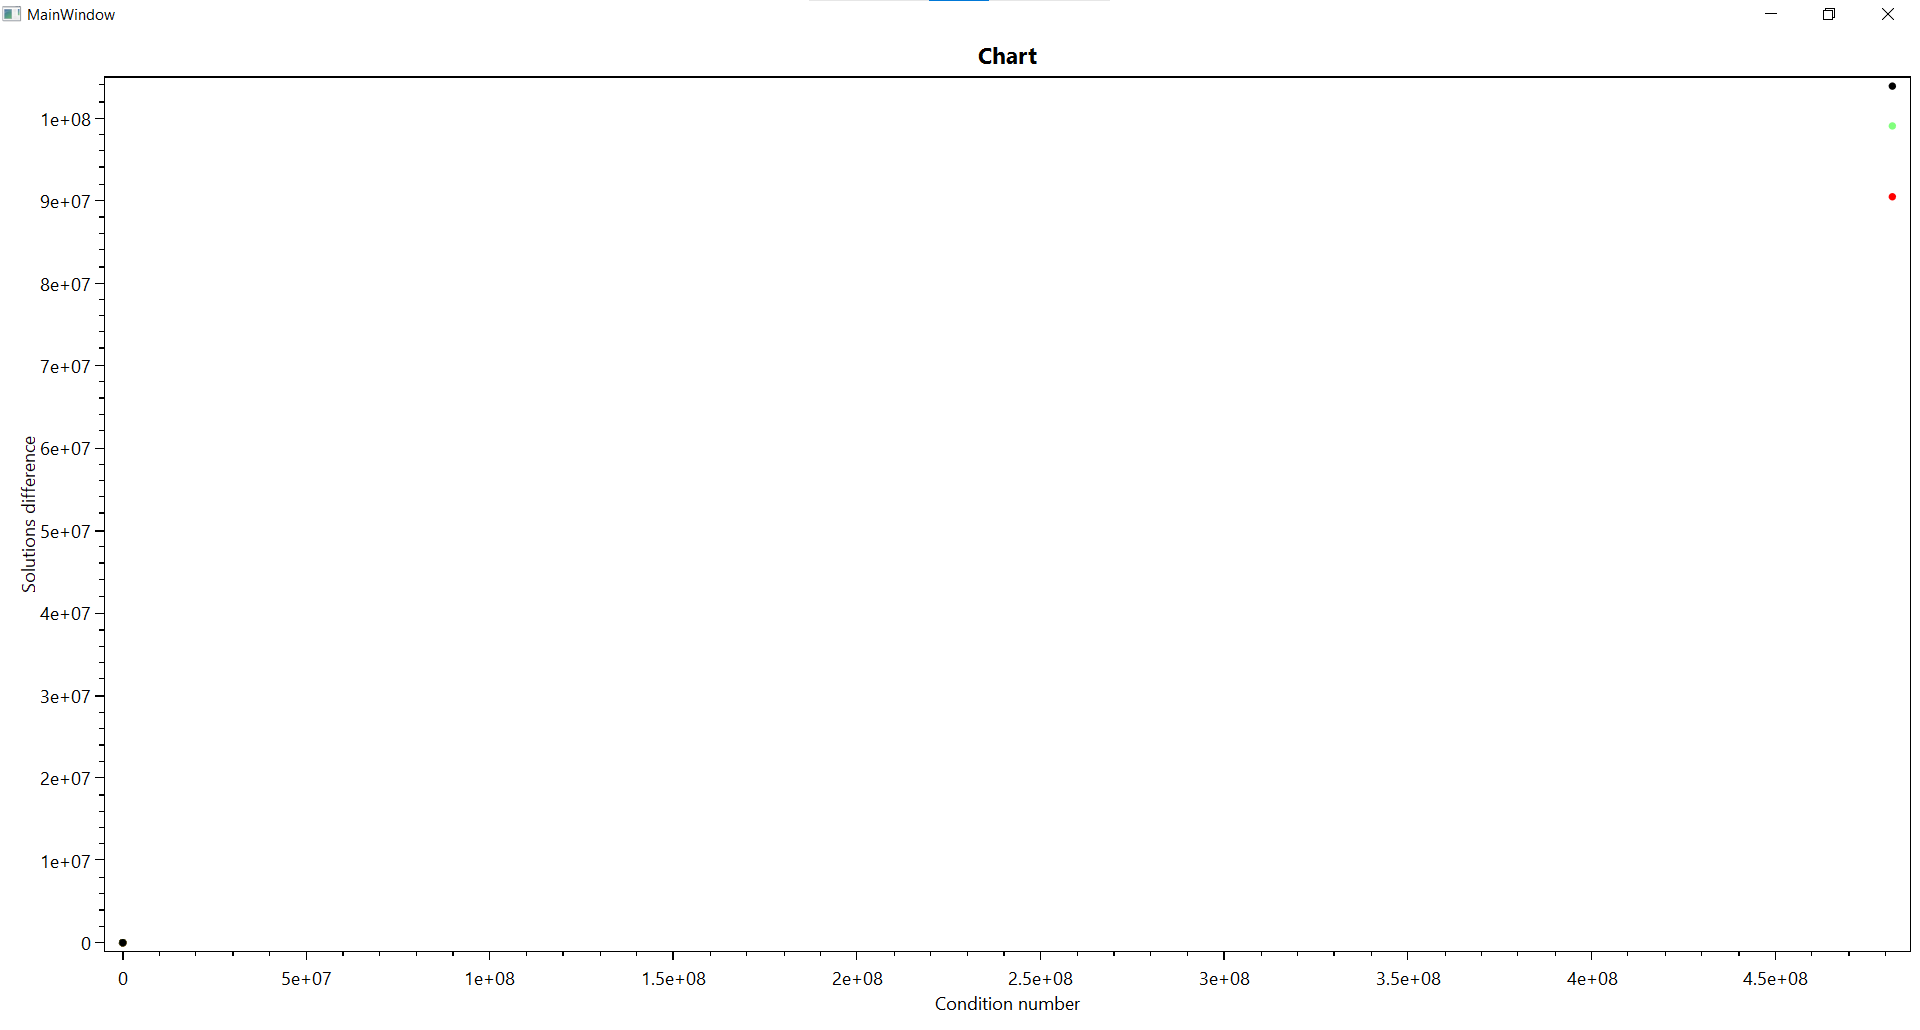
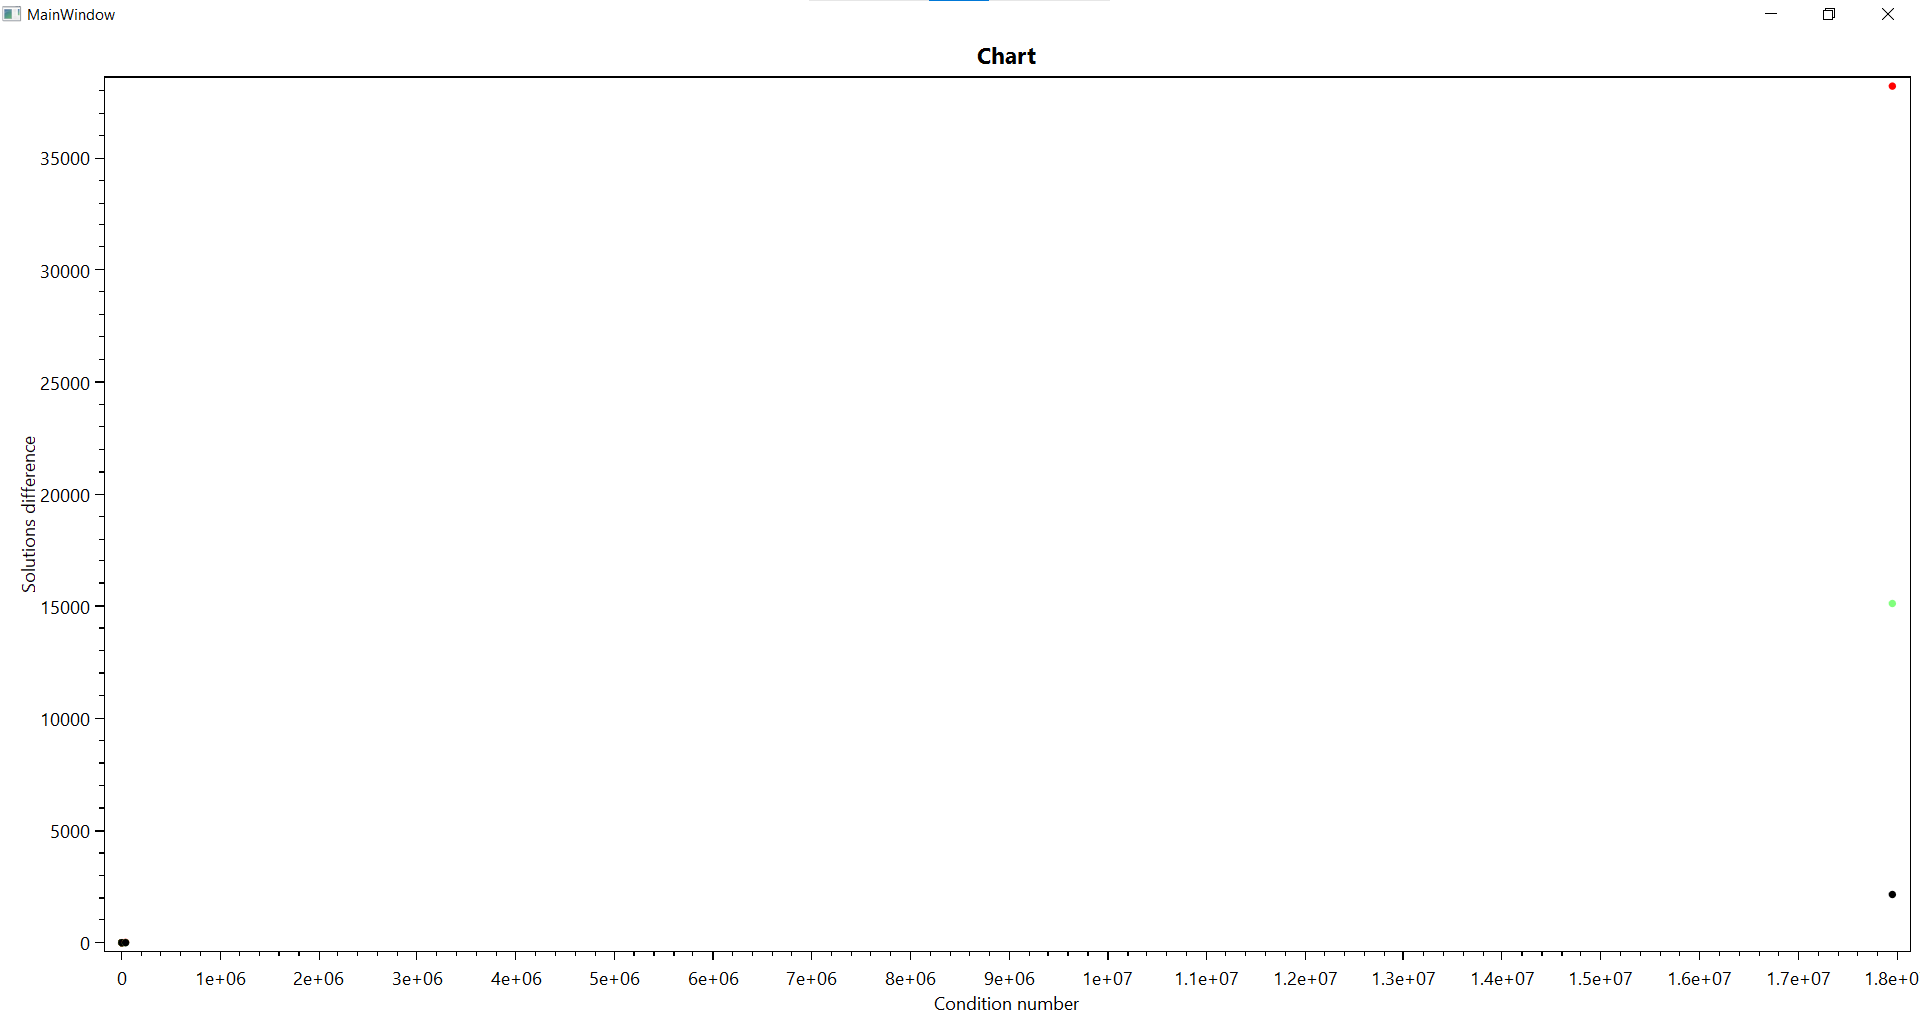
Fixed example and replaced picture

diff --git a/Semester6/Task1/Task1.Chart/MainWindow.xaml.cs b/Semester6/Task1/Task1.Chart/MainWindow.xaml.cs
@@ -104,7 +104,15 @@ namespace Task1.Chart
                     matrix7[i, j] /= 1 + i + j;
                 }
             }
-            var vector7 = new DotNumerics.LinearAlgebra.Vector(new double[] { 5279 / 420, 3743 / 420, 17771 / 2520, 47 / 8, 139999 / 27720, 30743 / 6930, 129697 / 32760 });
+
+            var vector7 = new DotNumerics.LinearAlgebra.Vector(new double[] { 1, 1, 1, 1, 1, 1, 1 });
+            vector7[0] = vector7[0] * 5699 / 420;
+            vector7[1] = vector7[1] * 4103 / 420;
+            vector7[2] = vector7[2] * 19661 / 2520;
+            vector7[3] = vector7[3] * 157 / 24;
+            vector7[4] = vector7[4] * 156631 / 27720;
+            vector7[5] = vector7[5] * 34523 / 6930;
+            vector7[6] = vector7[6] * 146077 / 32760;
             var exactSolution7 = new DotNumerics.LinearAlgebra.Vector(new double[] { 2, 9, 4, 7, 11, 9, 2 });
             equations.Add((matrix7, vector7, exactSolution7));
 

diff --git a/Semester6/Task1/Task1/ConditionNumber.cs b/Semester6/Task1/Task1/ConditionNumber.cs
@@ -149,7 +149,14 @@ namespace Task1
                     matrix3[i, j] /= 1 + i + j;
                 }
             }
-            var vector3 = new Vector(new double[] { 5279 / 420, 3743 / 420, 17771 / 2520, 47 / 8, 139999 / 27720, 30743 / 6930, 129697 / 32760 });
+            var vector3 = new Vector(new double[] { 1, 1, 1, 1, 1, 1, 1 });
+            vector3[0] = vector3[0] * 5699 / 420;
+            vector3[1] = vector3[1] * 4103 / 420;
+            vector3[2] = vector3[2] * 19661 / 2520;
+            vector3[3] = vector3[3] * 157 / 24;
+            vector3[4] = vector3[4] * 156631 / 27720;
+            vector3[5] = vector3[5] * 34523 / 6930;
+            vector3[6] = vector3[6] * 146077 / 32760;
             var exactSolution3 = new Vector(new double[] { 2, 9, 4, 7, 11, 9, 2 });
             equations.Add((matrix3, vector3, exactSolution3));
 
